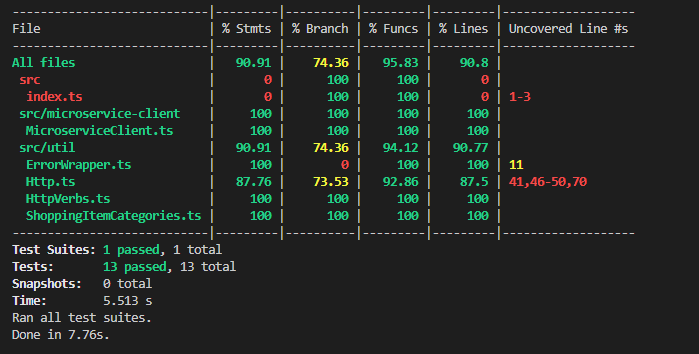
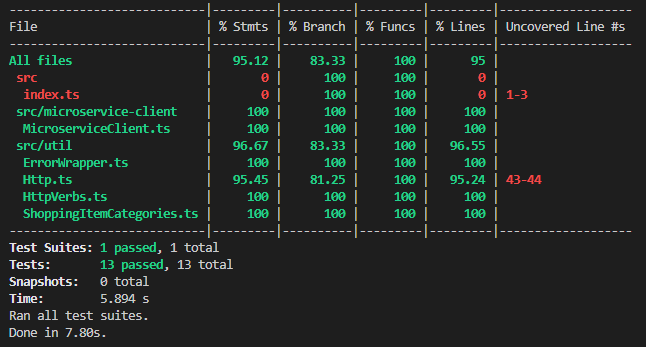
Wip testing overhaul

Changed region(s): [[0.0, 0.0, 0.9598, 0.9798]]

diff --git a/FYP_Dissertation_template/chapter6.tex b/FYP_Dissertation_template/chapter6.tex
@@ -41,7 +41,7 @@ Once a request is intercepted the mock is consumed. This allows different instan
 
 All of the unit tests for my API Client will make use of Nock so that it can be tested in isolation from the micro-service.
 \subsection{Code Coverage Target}
-Oftentimes it can be extremely challenging to hit one hundred percent code coverage. While I will aim to hit as close to complete coverage as possible, I will be aiming for a minimum of eighty five percent of overall code coverage for both the client and micro-service. There are likely to be certain parts of the code that aren't feasible to reach during unit-testing, particularly around handling of unexpected failures around the database connections.
+Oftentimes it can be extremely challenging to hit one hundred percent code coverage. While I will aim to hit as close to complete coverage as possible, I will be aiming for a minimum of 85\% of overall code coverage for the important files within both the client and micro-service. There are likely to be certain parts of the code that aren't feasible to reach during unit-testing, particularly around handling of unexpected failures around the database connections.
 \subsection{Unit Testing the Micro-service}
 The testing of the micro-service will be broken down into two key sections, testing that the controllers work and respond as expected, and that the data-agents process and store the data correctly.
 \subsubsection{Testing the Controllers}
@@ -126,44 +126,69 @@ In order to test the auto-generated client I will pull out the unit tests from m
 
 The clients package.json file will also need some additional libraries to be imported in order for the unit tests to run, however this will have no bearing on the actual functionality of the client. These will include the Jest framework and Nock library.
 \section{Results of the Tests}
-In this section I will analyse the Code Coverage reports generated for each of the services to get a general idea of how the test suites truly test the code.
+In this section I will analyse the Code Coverage reports generated for each of the services to get a general idea of how comprehensively the test suites  cover the code-base.
 \FloatBarrier
+\subsection{Reading the Code Coverage Reports}
+The generated reports contain a detailed breakdown of which files and components of the code are covered, as well as details of the degree to which they are covered. It breaks the coverage down into four key sections, Statements, Branches, Functions and Lines. It also lists the lines in the code which are not covered at all in tests. For the purpose of this report I am going to omit analysis of the Line coverage, as I think the other 3 aspects are more important.
+\subsubsection{Statements}
+This covers the Statements within the software. Variable assignment, function calls and return values all fall under under this umbrella and the reports details how many of these statements have been executed when the tests have been run. Statement coverage should typically be relatively high as you want the core of your code base to be heavily tested, covering most of the expected use case for the software. However if there are some niche branching paths or function calls that can be difficult to reach with unit tests, it might be unfeasible, or simply not worth the time investment, to strive for full coverage.
+\subsubsection{Branches}
+The branch coverage shows how many of the branches in the applications control flow have been executed. Typical examples for this are your standard if or switch statements. Maintaining 100\% coverage on control flow can be very difficult, and there are likely to be branches within the code that are not really expected to execute unless in the case of things like server failures. Writing unit tests covering these cases can be time consuming, and as they are not a typical use case of the software, oftentimes are not worth the time investment.
+\subsubsection{Functions}
+Function coverage should be as close to 100\% as possible and unit tests should be in place for every important function in the application. The function report details how many of the defined functions have actually been executed within the unit tests.
+\subsubsection{Lines}
+The line coverage tracks how many of the lines within the applications codes have been executed and in the same vein as branch coverage, can be extremely hard to reach perfect coverage. That being said aiming for as high a value as possible within sensible time constraints is best.
 \subsection{The Micro-service}
-Overall the coverage for the micro-service was very comprehensive and the target coverage of 85\% was exceeded. Figure 6.1 below shows the full breakdown of the report produced by Jest.
+The report below shows the Code Coverage report for the ShoppingItems micro-service.
 \begin{figure}[!htb]
 \caption{Code Coverage Report for the Exemplar Micro-service}
 \centering
 \includegraphics[scale=0.62]{FYP_Dissertation_template/Figures/microservice-code-coverage.PNG}
 \end{figure}
 \FloatBarrier
-When writing the unit-tests for the micro-service the key areas of interest where the data-agents, models and controllers. This is where the vast majority of the business logic is stored including the database interactions, data processing and HTTP request and response handling. The coverage on these files is close to 100\% coverage, with only a couple of lines of code not explicitly covered within the ShoppingItemController and ShoppingItemAgent. The report tells us exactly what line is not covered in each file and upon further inspections we can see that it is code relating to the handling of uncaught exceptions, something very hard and not really worth testing for. The report shows us that all of the code that we wanted tested within the files has been covered by the test suite and so we can have a certain degree of confidence within the code. Additionally the coverage on the RateLimiter file is 100\% which again gives confidence in the RateLimiting aspect of the service. The pagination is handled across the models and data-agents and the code handling this functionality is also fully covered by the unit-tests.
+The files we are particularly interested in tracking are \textit{ShoppingItemAgent}, \textit{ShoppingItemModel}, \textit{RateLimiter} and \textit{ShoppingItemController} as this is where the vast majority of the business and application logic is stored.
+\subsubsection{Statements}
+Starting with the statement coverage on \textit{ShoppingItemAgent} we can see that the file has 98\% coverage. The report shows the line 40 of the file is uncovered, and upon inspection we can see that it is handling any unexpected errors thrown by the database. I haven't written any unit test cases covering this and due to time constraints of the project I opted just to leave them as I deemed them fairly unimportant. The 98\% coverage exceeds my previously stated desired coverage of 85\%.
 
-In general the vast majority of logic within the application has been tested, the only real gaps in the coverage is relating to exceptions happening out of the blue around the database, and subsequent handling of the error has a HTTP response with a 500 status code.
+\textit{ShoppingItemModel} has 100\% statement coverage as does \textit{RateLimiter}.
+
+\textit{ShoppingItemController} reaches 97\% coverage, with a single uncovered line at line 106. Looking at line 106 in the codebase we can see that it is handling any unexpected errors thrown. As stated before, writing test cases for these events is time consuming and so I opted to move on. Once again, coverage exceeds that of the target. 
+\subsubsection{Branches}
+The branches follow the exact same pattern as the statement report, with the files without full coverage being impacted by the same lines once again and so I will not go into any more detail on the matter here.
+
+\textit{ShoppingItemModel} \textit{RateLimiter} both had 100\% branch coverage, \textit{ShoppingItemAgent} reached 94\% coverage and \textit{ShoppingItemController} reached 86\% coverage. All files exceeded target.
+
+\subsubsection{Functions}
+All of the files being watched maintain 100\% function coverage in the report.
 \subsection{The Handcrafted Client}
-Figure 6.2 shows the report for the Code Coverage of my custom API client. Again, the break-point of 85\% coverage has been exceeded with a total coverage of 91\% for the client.
+Figure 6.2 shows the report for the Code Coverage of my custom API client.
 \begin{figure}[!htb]
 \caption{Code Coverage Report for the Handcrafted Client}
 \centering
 \includegraphics[scale=0.70]{FYP_Dissertation_template/Figures/handcrafted-client-code-coverage.PNG}
 \end{figure}
-Taking a further look at the report we can see the actual MicroserviceClient file has 100\% code coverage. This file exposes the actual URL endpoints and parameters to the user of the client and full coverage shows that all interactions with the API client are tested, including expected error cases. 
+\FloatBarrier
 
-The Http file handles the actual logic of making the requests to the API. Whilst it only has a total code coverage of 88\% if we take a look at the lines not covered we can see that once again they are related to the handling on completely unexpected errors. The actual business logic of the HTTP request and response handling are fully covered. This includes all of the functionality around automatically retrying certain failed requests and the the correct handling of HTTP errors thrown by the API.
+The key files we will be looking at are \textit{MicroserviceClient} and \textit{Http}. The other files are mainly utility files providing Enums and Type declarations.
+\subsubsection{Statements}
+Statements coverage of \textit{MicroserviceClient} is 100\% and coverage of \textit{Http} is 95\%. Both reaching the targeted coverage.
 
-The rest of the files are relatively unimportant and only really act as Enumerated types or Type definitions. Despite this coverage of these files is 100\%.
+If we dive into the uncovered lines within the \textit{Http} file we can see lines 43 and 44 handle any unexpected errors when physically sending the request. Errors under this category would typically be any sort of internet connection issues and as the focus of my testing is on the actual interactions with the API, I have not created any test suites for these cases.
+\subsubsection{Branches}
+The coverage for branches within \textit{MicroserviceClient} is 100\% and for \textit{Http} is 81\%.
 
+The \textit{Http} coverage fails to reach the 85\% coverage, but upon inspection we can see that it is only one branch that is not covered, the same code mentioned in the statement report analysis. Covering this case has no real bearing on the success of the project, and so I will opt to leave it be for now.
+\subsubsection{Functions}
+Both targeted files reaches 100\% function coverage within the test suites.
 \subsection{The Auto-generated Client with the modifications}
-The report for code coverage of the API client generated from the OpenAPIGenerator templates I modified are shown in Figure 6.3. The unit-tests were pulled out of my handcrafted client and so with some very minor method signature changes, the test-suite itself is identical across the two clients.
-
+The report for code coverage of the API client generated from the OpenAPIGenerator templates I modified are shown in Figure 6.3. The unit tests were pulled out of my handcrafted client and so with some very minor method signature changes, the test-suite itself is mostly identical across the two clients.
 \begin{figure}[!htb]
 \caption{Code Coverage Report for the Generated Client with my Modifications}
 \centering
 \includegraphics[scale=0.55]{FYP_Dissertation_template/Figures/modified-client-code-coverage.PNG}
 \end{figure}
-
-Despite sharing the same test-suite, the coverage of the two clients are fairly different. The file structure and code architecture of the clients are vastly different, and the OpenAPISpecification client has a number of extra feature sets baked into the client such as OAuth and Token authorisation handling. As my API does not make use of these features there are no tests covering them, and as such coverage is lower. The important thing is that the tests pass, which all of them do. This shows that the additonal functionally around the automatic request retries and error handling works within the generated client.
-
-The test-suite for the generated client includes one extra unit-test around the OpenAPIGenerators handling of the createShoppingItem() method when no body payload is passed in. Whilst the additional test is unnecessary, I added it just to make sure my modifications didn't break the existing handling of the error format it uses.
+\FloatBarrier
+I am not going to break down the report for the generated client. There is a lot of functionality within the client I do not care about in the context of this project, and my focus is that the actual test cases I have transferred from my own client pass, as these represent the objectives I will be measuring the success of the generator changes against. As we can see in the figure above, all of the tests passed.
 \section{Evaluation against Project Objectives}
 In this section I will look back at the objectives for the project and determine whether they have been met for each piece of software.
 \subsection{The Exemplar Micro-service}

diff --git a/FYP_Dissertation_template/chapter8.tex b/FYP_Dissertation_template/chapter8.tex
@@ -1,7 +1,9 @@
 \chapter{Conclusion}
 
+overview of report.. we have done.. we have shown...
+
 emphasise why its good in general, but why THIS approach is better than other takes on it, Ruby on Rails etc
 
-future work: autogenerated tests with Nocks created from the specifications - maybe feasible maybe not
+future work: auto-generated tests with Nocks created from the specifications - maybe feasible maybe not
              actual rate limiting based on header info - x-rate-limit..... out of scope for microservice but client
             could consume this information and base the retries on these timouts etc
